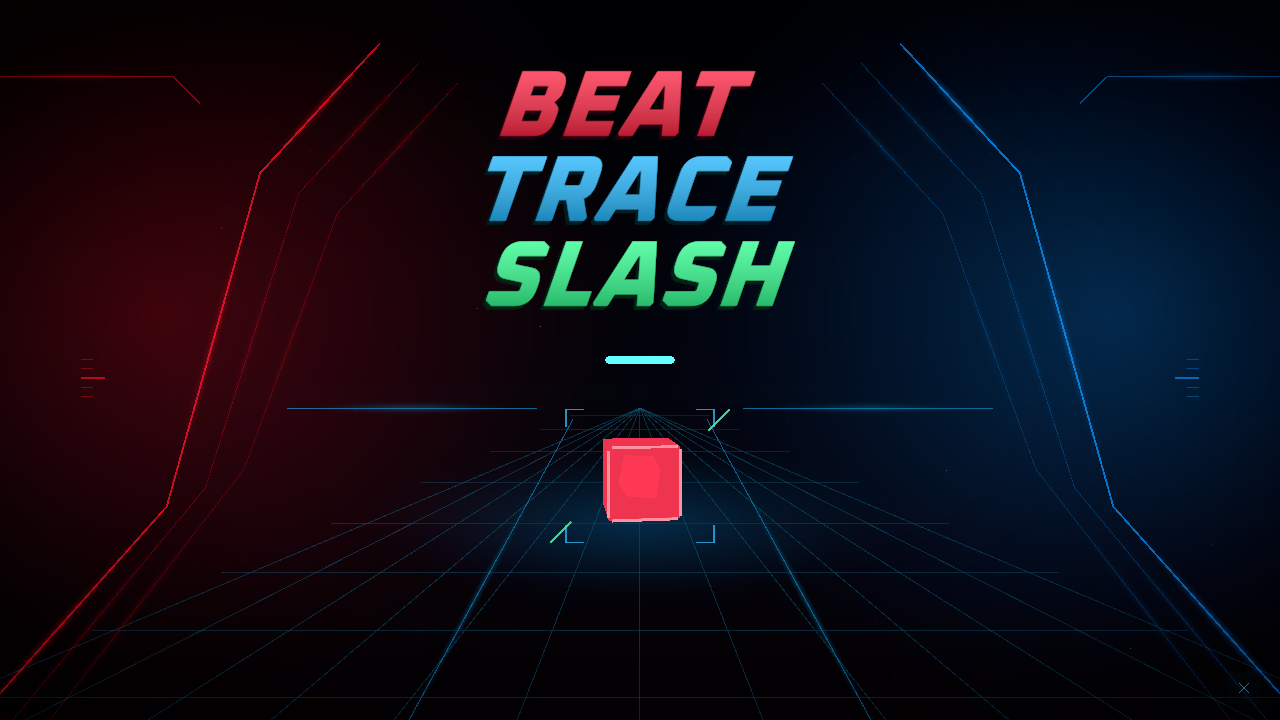
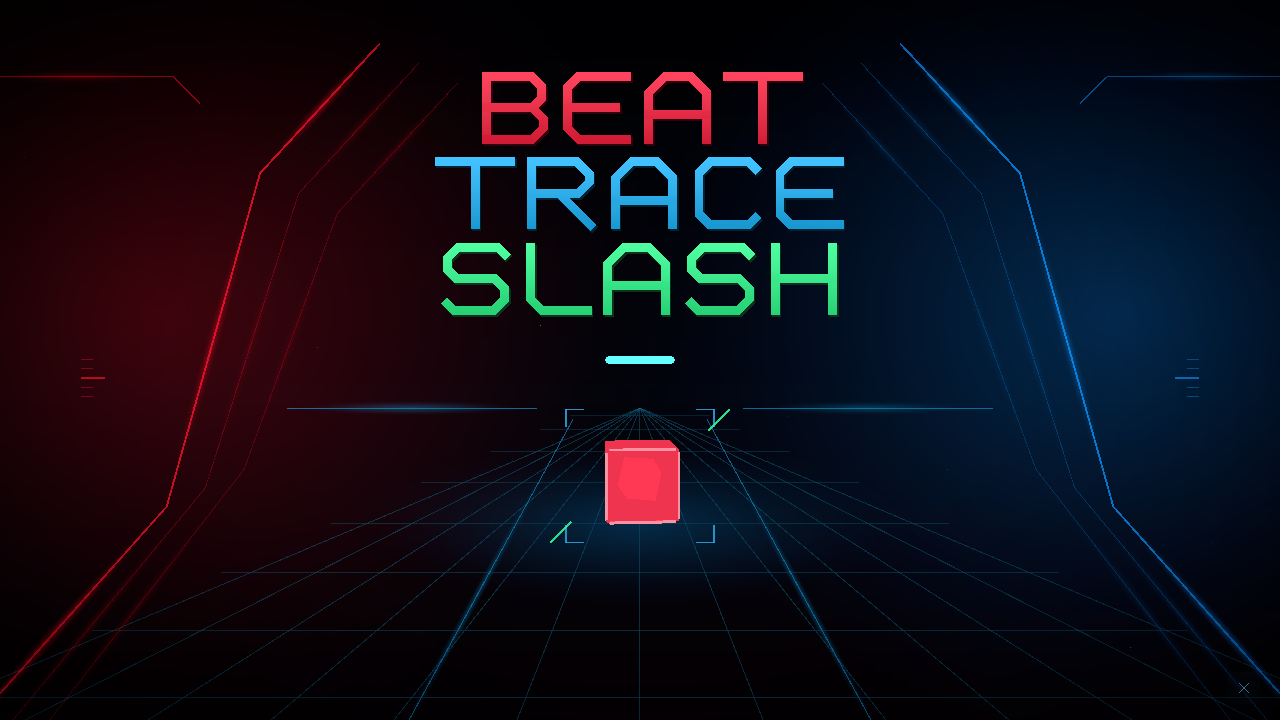
Build bespoke geometric title lettering

Changed region(s): [[0.3438, 0.0917, 0.6562, 0.4583], [0.4688, 0.6111, 0.5312, 0.7333]]

diff --git a/Assets/Scripts/UI/TitleWordmark.cs b/Assets/Scripts/UI/TitleWordmark.cs
@@ -1,0 +1,130 @@
+using System.Collections.Generic;
+using UnityEngine;
+using UnityEngine.UI;
+
+// タイトル専用の字形。既存フォントを変形せず、9文字を面取りした線のメッシュで組む。
+// 座標はベースラインから上向き。文字幅・線幅・角の切り方を全行で共有する。
+[RequireComponent(typeof(CanvasRenderer))]
+public sealed class TitleWordmark : MaskableGraphic
+{
+    const float StrokeWidth = 13f;
+    const float CapHeight = 92f;
+    const float Tracking = 22f;
+    [SerializeField] string word = "BEAT";
+
+    sealed class Glyph
+    {
+        public readonly float width;
+        public readonly Vector2[][] strokes;
+        public Glyph(float width, params Vector2[][] strokes) { this.width = width; this.strokes = strokes; }
+    }
+
+    static Vector2[] Path(params float[] coordinates)
+    {
+        var result = new Vector2[coordinates.Length / 2];
+        for (int i = 0; i < result.Length; i++) result[i] = new Vector2(coordinates[i * 2], coordinates[i * 2 + 1]);
+        return result;
+    }
+
+    static readonly Dictionary<char, Glyph> Glyphs = new Dictionary<char, Glyph>
+    {
+        ['B'] = new Glyph(96,
+            Path(8, 0, 8, 92),
+            Path(8, 92, 72, 92, 88, 76, 88, 60, 74, 46, 8, 46),
+            Path(74, 46, 90, 30, 90, 16, 74, 0, 8, 0)),
+        ['E'] = new Glyph(96,
+            Path(94, 92, 24, 92, 8, 76, 8, 16, 24, 0, 94, 0),
+            Path(8, 46, 78, 46)),
+        ['A'] = new Glyph(100,
+            Path(8, 0, 8, 68, 32, 92, 68, 92, 92, 68, 92, 0),
+            Path(8, 36, 92, 36)),
+        ['T'] = new Glyph(104,
+            Path(0, 92, 104, 92),
+            Path(52, 92, 52, 0)),
+        ['R'] = new Glyph(100,
+            Path(8, 0, 8, 92, 74, 92, 92, 74, 92, 62, 76, 46, 8, 46),
+            Path(51, 43, 94, 0)),
+        ['C'] = new Glyph(96,
+            Path(90, 82, 80, 92, 24, 92, 8, 76, 8, 16, 24, 0, 80, 0, 90, 10)),
+        ['S'] = new Glyph(100,
+            Path(92, 82, 82, 92, 24, 92, 8, 76, 8, 60, 22, 46, 78, 46, 92, 32, 92, 16, 76, 0, 18, 0, 8, 10)),
+        ['L'] = new Glyph(90,
+            Path(8, 92, 8, 16, 24, 0, 90, 0)),
+        ['H'] = new Glyph(100,
+            Path(8, 0, 8, 92),
+            Path(92, 0, 92, 92),
+            Path(8, 46, 92, 46))
+    };
+
+    public string Word => word;
+
+    public void Configure(string titleWord, Color accent)
+    {
+        word = titleWord;
+        color = accent;
+        raycastTarget = false;
+        SetVerticesDirty();
+    }
+
+    protected override void OnPopulateMesh(VertexHelper vh)
+    {
+        vh.Clear();
+        if (string.IsNullOrEmpty(word)) return;
+        float width = -Tracking;
+        foreach (char letter in word)
+        {
+            if (!Glyphs.TryGetValue(letter, out var glyph)) return;
+            width += glyph.width + Tracking;
+        }
+        Rect rect = GetPixelAdjustedRect();
+        float scale = Mathf.Min(rect.width / (width + StrokeWidth + 8f), rect.height / (CapHeight + StrokeWidth + 8f));
+        Vector2 origin = rect.center - new Vector2(width, CapHeight) * scale * .5f;
+
+        // わずかな側面で厚みを出す。強いぼかしや太い疑似斜体は使わない。
+        DrawWord(vh, origin + new Vector2(2f, -3f) * scale, scale, true);
+        DrawWord(vh, origin, scale, false);
+    }
+
+    void DrawWord(VertexHelper vh, Vector2 origin, float scale, bool depth)
+    {
+        foreach (char letter in word)
+        {
+            Glyph glyph = Glyphs[letter];
+            foreach (Vector2[] path in glyph.strokes) DrawStroke(vh, path, origin, scale, depth);
+            origin.x += (glyph.width + Tracking) * scale;
+        }
+    }
+
+    void DrawStroke(VertexHelper vh, Vector2[] path, Vector2 origin, float scale, bool depth)
+    {
+        int first = vh.currentVertCount;
+        for (int i = 0; i < path.Length; i++)
+        {
+            Vector2 before = i > 0 ? (path[i] - path[i - 1]).normalized : (path[1] - path[0]).normalized;
+            Vector2 after = i + 1 < path.Length ? (path[i + 1] - path[i]).normalized : before;
+            Vector2 n0 = new Vector2(-before.y, before.x);
+            Vector2 n1 = new Vector2(-after.y, after.x);
+            Vector2 miter = (n0 + n1).normalized;
+            Vector2 edge = miter * (StrokeWidth * .5f / Mathf.Max(.35f, Vector2.Dot(miter, n0)));
+            // 直線の端も半線幅だけ伸ばし、H/Tの天地と折れ曲がる文字の天地を揃える。
+            Vector2 center = path[i];
+            if (i == 0) center -= after * (StrokeWidth * .5f);
+            if (i == path.Length - 1) center += before * (StrokeWidth * .5f);
+            AddVertex(vh, center + edge, origin, scale, depth);
+            AddVertex(vh, center - edge, origin, scale, depth);
+            if (i == 0) continue;
+            int at = first + i * 2;
+            vh.AddTriangle(at - 2, at, at - 1);
+            vh.AddTriangle(at - 1, at, at + 1);
+        }
+    }
+
+    void AddVertex(VertexHelper vh, Vector2 point, Vector2 origin, float scale, bool depth)
+    {
+        Color tint = depth ? new Color(color.r * .19f, color.g * .19f, color.b * .19f, color.a)
+            : Color.Lerp(new Color(color.r * .82f, color.g * .82f, color.b * .82f, color.a),
+                Color.Lerp(color, Color.white, .16f), Mathf.Clamp01(point.y / CapHeight));
+        tint.a = color.a;
+        vh.AddVert(origin + point * scale, tint, Vector2.zero);
+    }
+}

diff --git a/Assets/Scripts/UI/TitleSceneSkin.cs b/Assets/Scripts/UI/TitleSceneSkin.cs
@@ -70,11 +70,11 @@ public class TitleSceneSkin : MonoBehaviour
         container.transform.SetParent(canvas.transform, false);
         titleContainer = container.GetComponent<RectTransform>();
         titleContainer.sizeDelta = new Vector2(1050f, 450f);
-        titleContainer.anchoredPosition = new Vector2(-10f, 250f);
+        titleContainer.anchoredPosition = new Vector2(0f, 250f);
 
-        BuildLogoWord(container.transform, "BEAT", new Color(1f, .13f, .25f), new Vector2(-12f, 128f));
+        BuildLogoWord(container.transform, "BEAT", new Color(1f, .13f, .25f), new Vector2(0f, 128f));
         BuildLogoWord(container.transform, "TRACE", new Color(.12f, .72f, 1f), Vector2.zero);
-        BuildLogoWord(container.transform, "SLASH", new Color(.18f, 1f, .56f), new Vector2(12f, -128f));
+        BuildLogoWord(container.transform, "SLASH", new Color(.18f, 1f, .56f), new Vector2(0f, -128f));
 
         var entrance = container.AddComponent<UIFadeSlideIn>();
         entrance.delay = .05f;
@@ -84,31 +84,13 @@ public class TitleSceneSkin : MonoBehaviour
 
     void BuildLogoWord(Transform parent, string word, Color brand, Vector2 position)
     {
-        // 角を切った字形を主役にし、背面の薄い影だけで厚みを付ける。
-        var font = UISkinKit.FontAsset("Oxanium-ExtraBold") ?? UISkinKit.LogoFontAsset();
-        var shadow = UISkinKit.MakeTMP(parent, "LogoDepth_" + word, word, 143f,
-            new Color(brand.r * .14f, brand.g * .14f, brand.b * .14f, 1f),
-            TextAlignmentOptions.Center, position + new Vector2(-5f, -6f),
-            new Vector2(1050f, 160f), FontStyles.Italic, 1f, font);
-        shadow.raycastTarget = false;
-
-        var glow = UISkinKit.MakeTMP(parent, "LogoGlow_" + word, word, 143f,
-            new Color(brand.r, brand.g, brand.b, .075f), TextAlignmentOptions.Center,
-            position, new Vector2(1050f, 160f), FontStyles.Italic, 1f, font);
-        glow.outlineWidth = .16f;
-        glow.outlineColor = new Color(brand.r, brand.g, brand.b, .2f);
-        glow.raycastTarget = false;
-
-        var text = UISkinKit.MakeTMP(parent, "Logo_" + word, word, 143f, Color.white,
-            TextAlignmentOptions.Center, position, new Vector2(1050f, 160f), FontStyles.Italic, 1f, font);
-        Color top = Color.Lerp(brand, Color.white, .25f);
-        Color bottom = brand * .72f;
-        bottom.a = 1f;
-        text.enableVertexGradient = true;
-        text.colorGradient = new VertexGradient(top, top, bottom, bottom);
-        text.outlineWidth = .045f;
-        text.outlineColor = new Color(brand.r * .12f, brand.g * .12f, brand.b * .12f, .95f);
-        text.raycastTarget = false;
+        var go = new GameObject("Logo_" + word, typeof(RectTransform), typeof(TitleWordmark));
+        go.transform.SetParent(parent, false);
+        var rt = go.GetComponent<RectTransform>();
+        rt.anchoredPosition = position;
+        // 行ごとの拡大率は揃え、4文字のBEATだけ自然に短くする。
+        rt.sizeDelta = new Vector2(820f, 116f);
+        go.GetComponent<TitleWordmark>().Configure(word, brand);
     }
 
     // 他画面でも利用する既存のグラデーションAPIは変更しない。

diff --git a/Assets/Editor/TitleDesignCapture.cs b/Assets/Editor/TitleDesignCapture.cs
@@ -64,7 +64,9 @@ public static class TitleDesignCapture
                 Capture("title-1080p.png", 1920, 1080);
                 Capture("title-720p.png", 1280, 720);
                 string[] labels = UnityEngine.Object.FindObjectsByType<TextMeshProUGUI>(FindObjectsSortMode.None)
-                    .Where(t => t.gameObject.activeInHierarchy).Select(t => t.name + ": " + t.text).ToArray();
+                    .Where(t => t.gameObject.activeInHierarchy).Select(t => t.name + ": " + t.text)
+                    .Concat(UnityEngine.Object.FindObjectsByType<TitleWordmark>(FindObjectsSortMode.None)
+                        .Where(t => t.gameObject.activeInHierarchy).Select(t => t.name + ": " + t.Word)).ToArray();
                 File.WriteAllLines(Path.Combine(output, "visible-labels.txt"), labels);
                 // ノーツの見た目と透明な開始ボタンの当たり領域が一致していることも確認する。
                 var eventSystem = EventSystem.current;

diff --git a/docs/TitleCyberPolish.md b/docs/TitleCyberPolish.md
@@ -1,6 +1,6 @@
 # タイトル画面の整理
 
-ノーツを切って開始する体験と暗い赤青の空間を残し、ロゴと開始ノーツに視線を集める改修。
+ノーツを切って開始する体験と暗い赤青の空間を残し、専用に作ったロゴと開始ノーツに視線を集める改修。
 
 ## 変更前
 
@@ -13,14 +13,14 @@
 いずれも実際のTitleシーンをUnity 6000.3.9f1で撮影。720p画像を掲載し、1080pでも確認している。
 
 - PLAY、SOLO、下部の操作説明、タグライン、版表記と丸いカード枠を外した。
-- 既存のOxanium ExtraBoldをタイトル内で使用し、字間・傾き・色・影を調整した。他画面の共通フォント設定は変更していない。
+- ロゴのB/E/A/T/R/C/S/L/Hを専用の輪郭から制作した。横に広い直立の字形で、線幅・面取り・字間・高さを揃える。`TitleWordmark`が文字の形をUIメッシュとして描くため、ロゴは既存フォントに依存しない。他画面の共通フォント設定は変更していない。
 - 背景を赤青の段階的なレールと控えめな床の光へ整理した。
 - 開始ノーツは四隅と斜めの印で示す。クリック、Enter/Space、セイバー切断による開始経路を維持する。
 - 終了操作は右下の×ボタンにした。
 
 ## 参考
 
-[Ghostrunner 2公式ページ](https://www.playstation.com/en-us/games/ghostrunner-2/)の鋭い輪郭と暗い空間の光、[WipEout Omega Collection公式ページ](https://www.playstation.com/en-us/games/wipeout-omega-collection/)の幾何学的な形の揃え方を参考にした。ロゴ・画像などの素材は転載していない。これらの作品がOxaniumを使用しているという意味ではない。
+[Ghostrunner 2公式ページ](https://www.playstation.com/en-us/games/ghostrunner-2/)の鋭い輪郭と暗い空間の光、[WipEout Omega Collection公式ページ](https://www.playstation.com/en-us/games/wipeout-omega-collection/)の幾何学的な形の揃え方を参考にした。ロゴ・画像・フォントなどの素材は転載していない。
 
 ## 実画面の再確認
 
@@ -28,4 +28,6 @@
 
 実機センサーとプロジェクター投影の見え方は、このバッチ確認には含まない。
 
-既存のEditMode `TitleStartNoteTests` は3件すべて成功した。画面撮影では改修前後ともUnity Editor自身の検索インデックス起動時に `ArgumentOutOfRangeException` が出たが、シーン描画・クリック・切断・遷移の確認は完了した。テスト実行ではこの例外は発生していない。
+開始処理の既存EditMode `TitleStartNoteTests` は初回改修（388bfdc）で3件すべて成功した。その後の専用ロゴ化では開始処理を変更せず、実画面撮影とクリック・切断・遷移を再確認した。
+
+初回の画面撮影では変更前後ともUnity Editor自身の検索インデックス起動時に `ArgumentOutOfRangeException` が出たが、シーン描画・クリック・切断・遷移の確認は完了した。初回テスト実行ではこの例外は発生していない。
